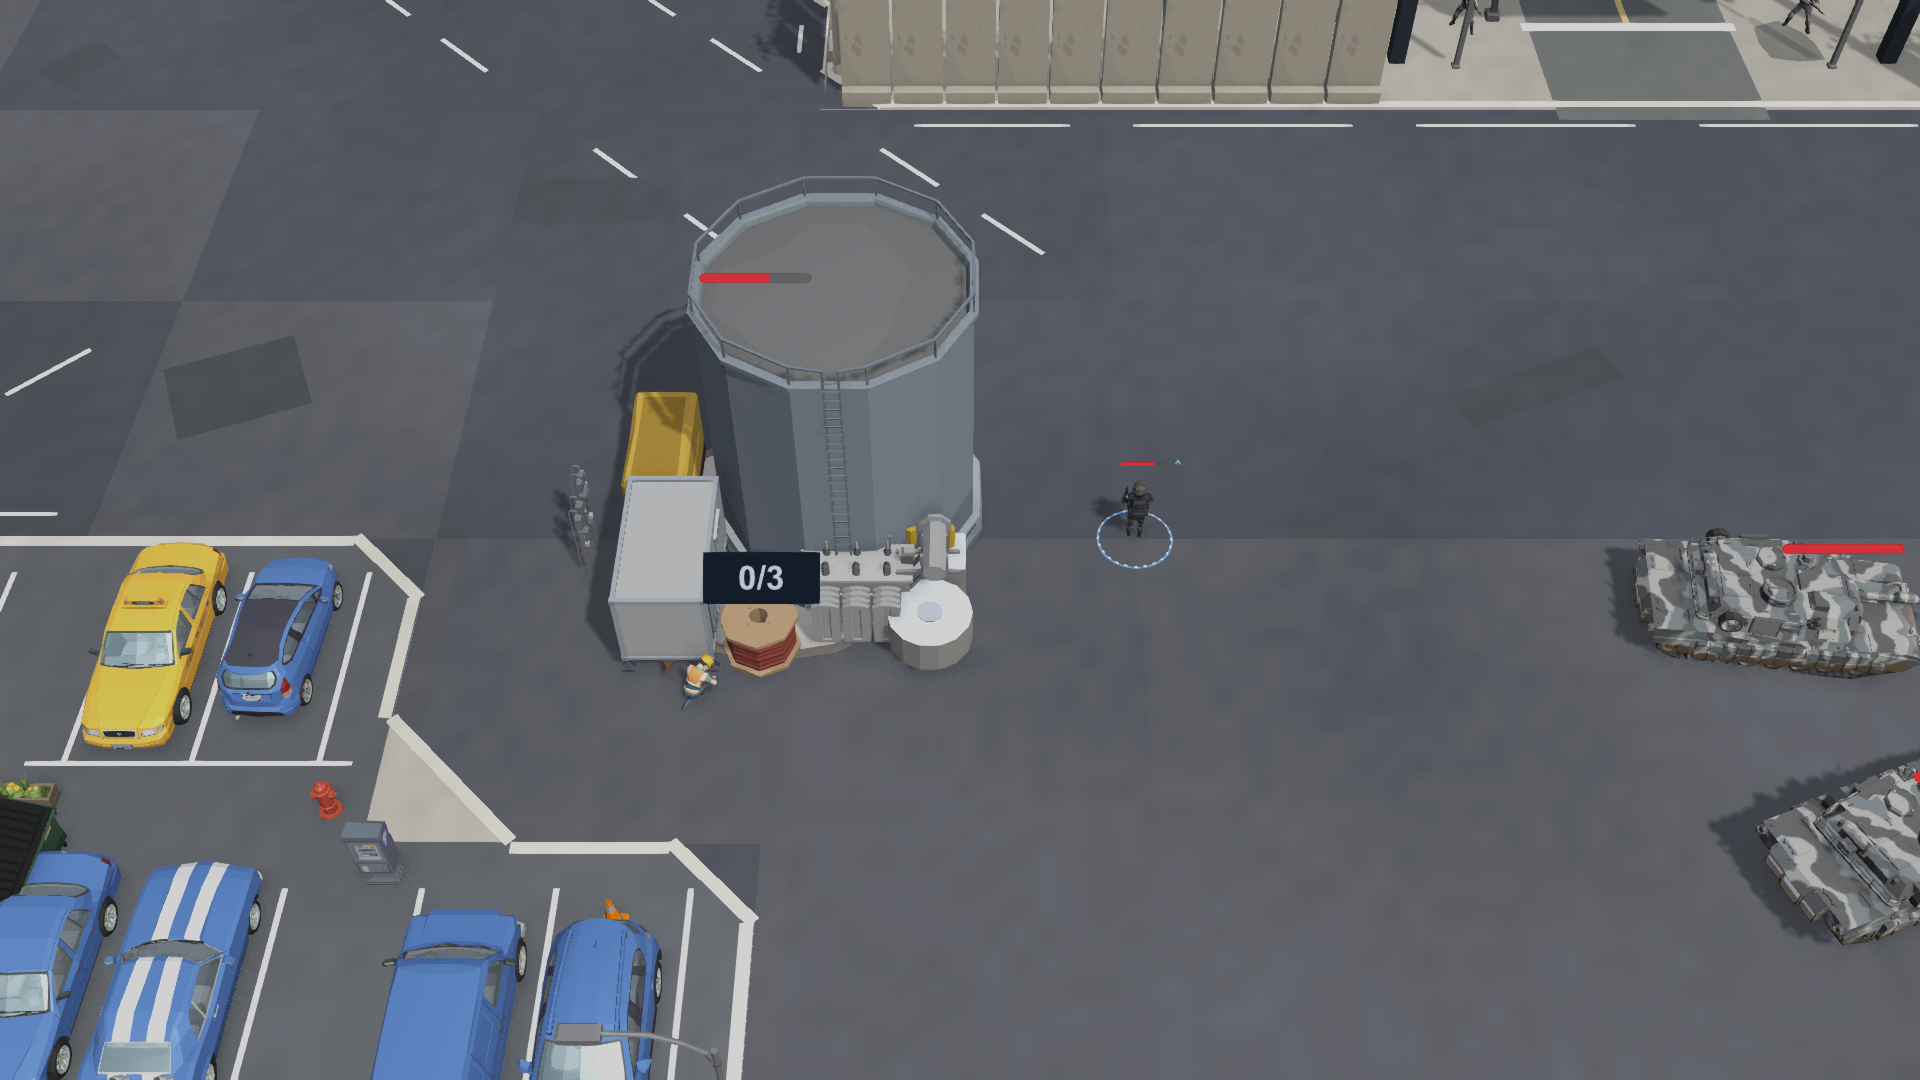
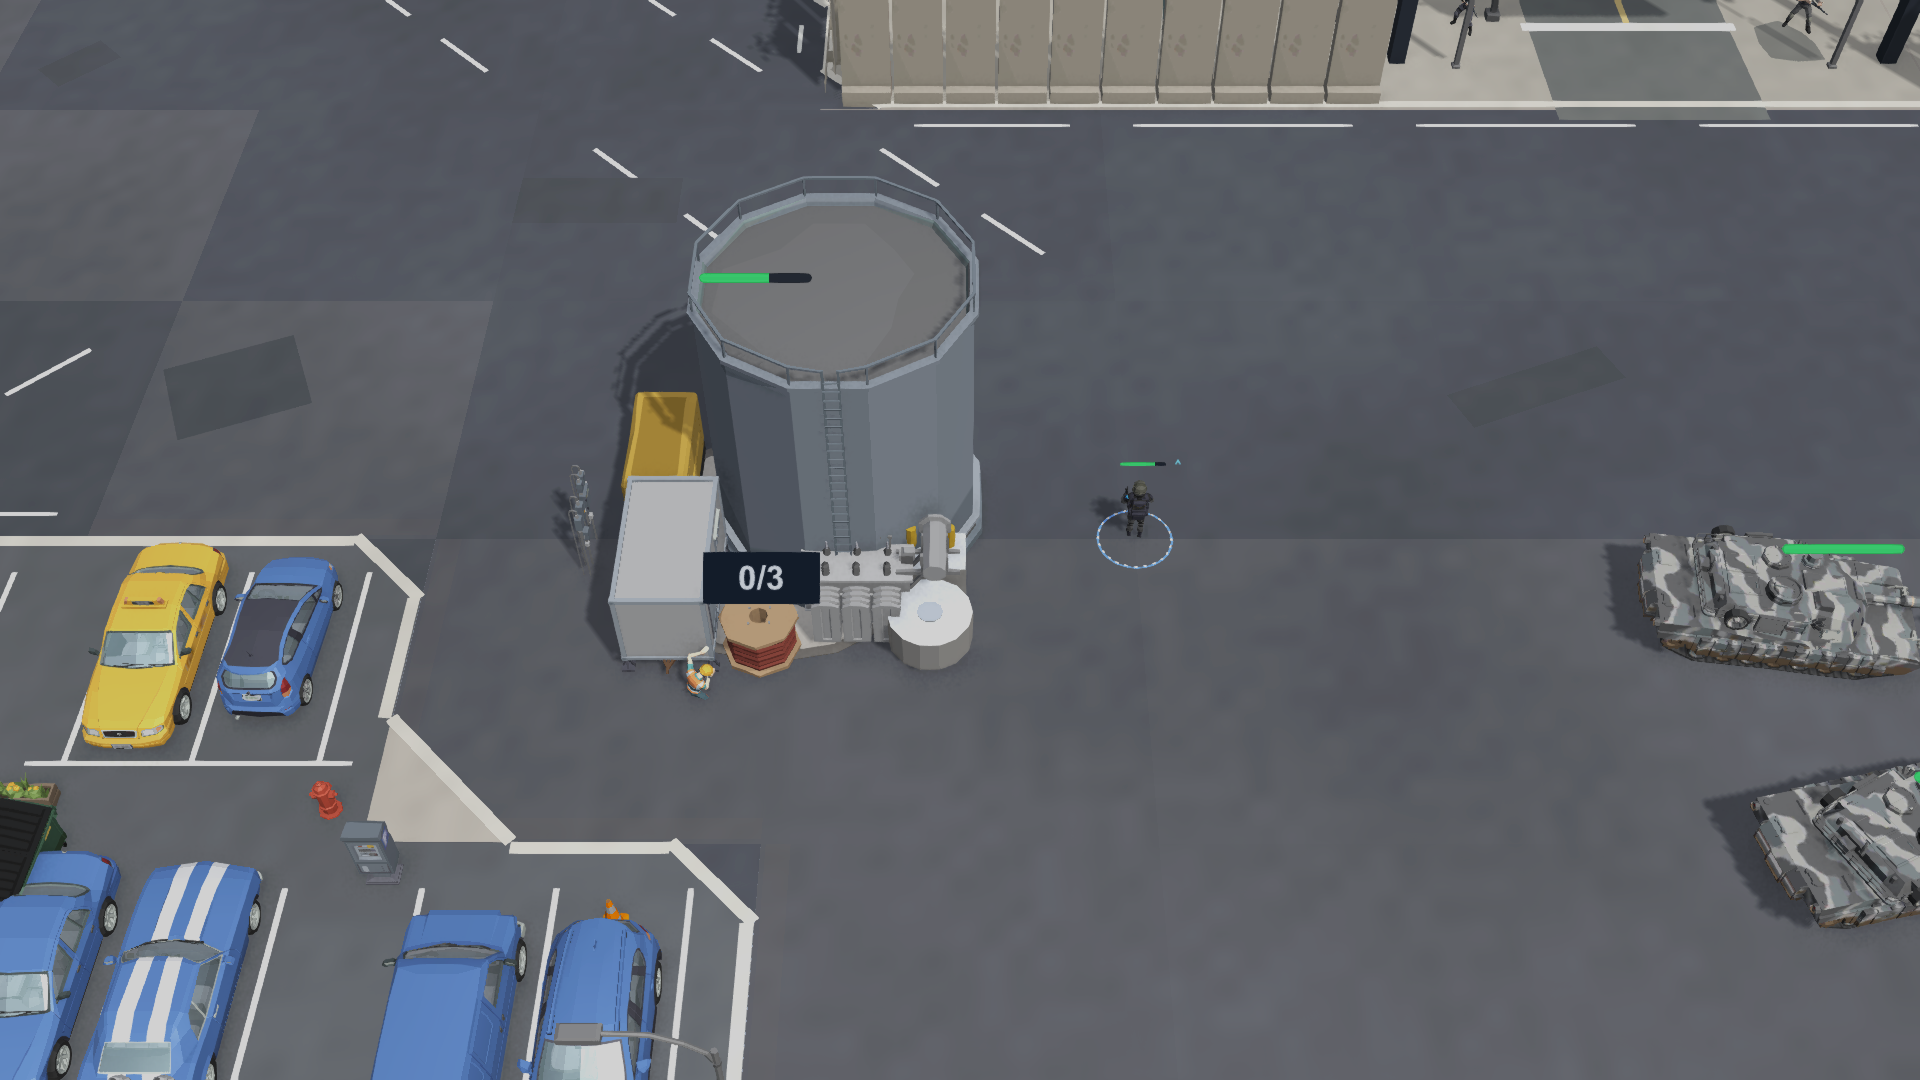
[gemini] MicroBar 아군(에메랄드 그린→앰버→크림슨)/적군(크림슨 레드) 피아 식별 색상·대비 보정 및 재캡처

diff --git a/Assets/QuantumUser/View/FactoryWars/Art/ArtView.cs b/Assets/QuantumUser/View/FactoryWars/Art/ArtView.cs
@@ -33,6 +33,9 @@ namespace FactoryWars.View {
     public GameObject Bar;
     public Transform Fill;
     public MicroBar MicroBar;
+    SpriteRenderer _microHpBar;
+    SpriteRenderer _microBgBar;
+    bool _barFriendly = true;
     public bool HasMicroBar => MicroBar != null;
     float _lastHealth = 1f;
     static GameObject _microBarPrefab;
@@ -112,11 +115,17 @@ namespace FactoryWars.View {
         foreach (var r in view.Bar.GetComponentsInChildren<SpriteRenderer>(true)) {
           r.shadowCastingMode = ShadowCastingMode.Off;
           r.receiveShadows = false;
+          if (r.gameObject.name == "HP Bar") view._microHpBar = r;
+          else if (r.gameObject.name == "HP Background") {
+            view._microBgBar = r;
+            r.color = new Color(0.08f, 0.10f, 0.14f, 0.85f);
+          }
         }
         view.MicroBar = view.Bar.GetComponentInChildren<MicroBar>(true);
         if (view.MicroBar != null) {
           view.MicroBar.Initialize(1f);
         }
+        view.ApplyMicroBarColor(1f);
         view.Bar.SetActive(false);
       } else {
         view.Bar = Marker("Bar", view.transform, BarBackMesh());
@@ -310,6 +319,24 @@ namespace FactoryWars.View {
       }
     }
 
+    /// <summary>아군(에메랄드 그린→앰버→크림슨) / 적군(크림슨 레드) 피아 식별 체력바 톤 설정.</summary>
+    public void SetBarTeam(bool friendly) {
+      if (_barFriendly == friendly) return;
+      _barFriendly = friendly;
+      ApplyMicroBarColor(_lastHealth);
+    }
+
+    void ApplyMicroBarColor(float ratio) {
+      if (_microHpBar == null) return;
+      if (_barFriendly) {
+        _microHpBar.color = ratio > 0.52f
+          ? new Color(0.22f, 0.90f, 0.42f, 1f)
+          : ratio > 0.25f ? new Color(0.96f, 0.72f, 0.20f, 1f) : new Color(0.94f, 0.26f, 0.24f, 1f);
+      } else {
+        _microHpBar.color = new Color(0.96f, 0.24f, 0.24f, 1f);
+      }
+    }
+
     /// <summary>0~1. MicroBar 애니메이션 체력바(지연 고스트바 포함) 또는 폴백 Fill 갱신.</summary>
     public void SetHealth(float ratio) {
       var value = Mathf.Clamp01(ratio);
@@ -318,6 +345,7 @@ namespace FactoryWars.View {
           _lastHealth = value;
           MicroBar.UpdateBar(value);
         }
+        ApplyMicroBarColor(value);
         return;
       }
       if (Fill != null) {

diff --git a/Assets/QuantumUser/View/FactoryWars/Battle/BattleView.cs b/Assets/QuantumUser/View/FactoryWars/Battle/BattleView.cs
@@ -1222,6 +1222,8 @@ namespace FactoryWars.View {
       }
       // 고지대 은폐: 적에게 숨은 유닛은 그리지 않고, 내 숨은 유닛은 점선 고리로 알린다.
       var viewer = _controller != null ? _controller.Player : PlayerRef.None;
+      var friendlyUnitBar = viewer.IsValid == false || unit->Owner == viewer || DiplomacySystem.GetRelation(frame, viewer, unit->Owner) == Relation.Allied;
+      actor.View.SetBarTeam(friendlyUnitBar);
       var visible = viewer.IsValid == false || FactoryWarsUtil.IsVisibleTo(frame, viewer, entity);
       actor.EngineerWasVisible = spec.Size == UnitSize.Engineer && visible;
       actor.ExtractorEntryTime = 0f;
@@ -2090,6 +2092,8 @@ namespace FactoryWars.View {
         UpdateActivityCrewMulti(actor, pCount, powerPose0, "Inspect", "Lever");
       }
       var bHpRatio = spec.MaxHealth > FP._0 ? (building->Health / spec.MaxHealth).AsFloat : 1f;
+      var friendlyBuildingBar = buildingViewer.IsValid == false || building->Owner == buildingViewer || DiplomacySystem.GetRelation(frame, buildingViewer, building->Owner) == Relation.Allied;
+      actor.View.SetBarTeam(friendlyBuildingBar);
       UpdateDamageFire(actor, bHpRatio, 1.4f);
       var operating = powered && (processing || producing || researching || ultimateBusy || overdriving || extracting || spec.Role == BuildingRole.PowerPlant);
       var busy = operating || (powered && (yard || spec.Role == BuildingRole.Headquarters));
